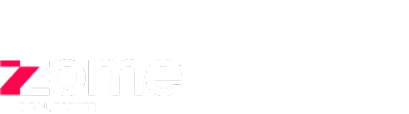
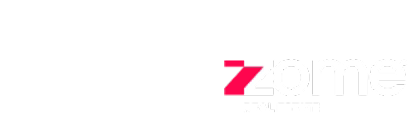
Logótipo: nome à esquerda, número + Zome à direita, mais abaixo
Claude-Session: https://claude.ai/code/session_01GcQoGpRwwc5HscGtesB2AY

diff --git a/video-agent/voice.md b/video-agent/voice.md
@@ -43,8 +43,8 @@ Sempre com o @andreiaferreira_zome por baixo. Sem emojis no vídeo.
 ## 7. Logótipos
 Assinatura em duas peças separadas (o monograma AF não entra nos vídeos), como as molduras de canto da marca — simples e
 equilibrada, nunca um logótipo grande por cima do vídeo:
-- **Telefone** (963 609 184) **+ logótipo Zome** por baixo → canto **inferior esquerdo**
-- **Andreia Ferreira · Consultora Imobiliária** → canto **inferior direito**
+- **Andreia Ferreira · Consultora Imobiliária** → canto **inferior esquerdo**
+- **Telefone** (963 609 184) **+ logótipo Zome** por baixo → canto **inferior direito**
 
 Cor automática peça a peça: **branco** sobre zonas escuras, **preto** sobre zonas
 claras (`--logo carmim` para forçar uma cor). Sem logótipos de ferramentas por agora.
@@ -134,15 +134,15 @@ logotipos:
     cor: auto                   # auto | branco | preto | carmim | azul
     opacidade: 0.9
     margem: 0.05                # distância às laterais (fração da largura)
-    margem_vertical: 0.15       # distância ao fundo (fração da altura) — acima da legenda do Instagram
+    margem_vertical: 0.11       # distância ao fundo (fração da altura)
     margem_topo: 0.06           # para peças no topo
     pecas:
-      - ficheiro: brand/telefone-zome.png   # número + logótipo Zome por baixo
-        posicao: inferior-esquerdo
-        tamanho: 0.30           # fração da largura do ecrã
       - ficheiro: brand/nome.png
+        posicao: inferior-esquerdo
+        tamanho: 0.34           # fração da largura do ecrã
+      - ficheiro: brand/telefone-zome.png   # número + logótipo Zome por baixo (alinhado à direita)
         posicao: inferior-direito
-        tamanho: 0.34
+        tamanho: 0.30
   ferramentas:
     tamanho: 0.22
     duracao: 2.0
